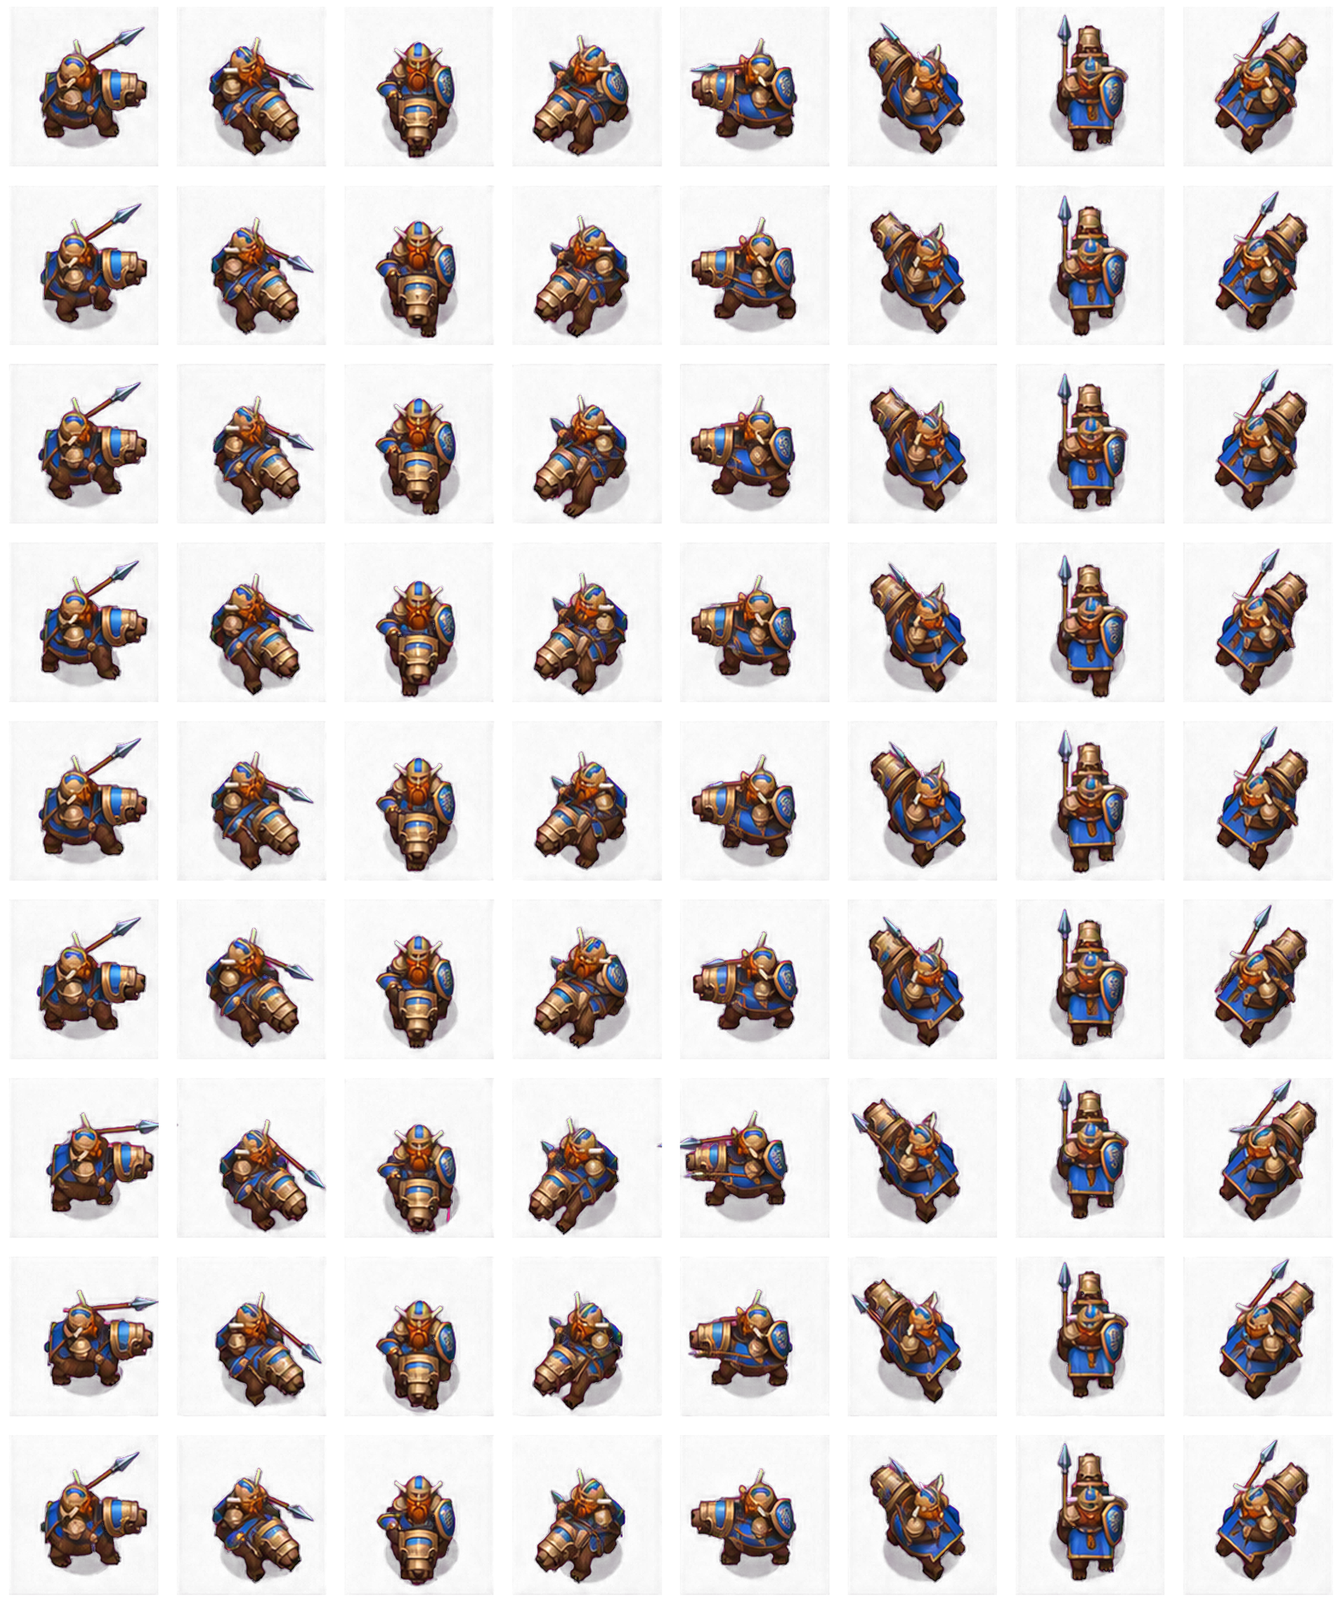
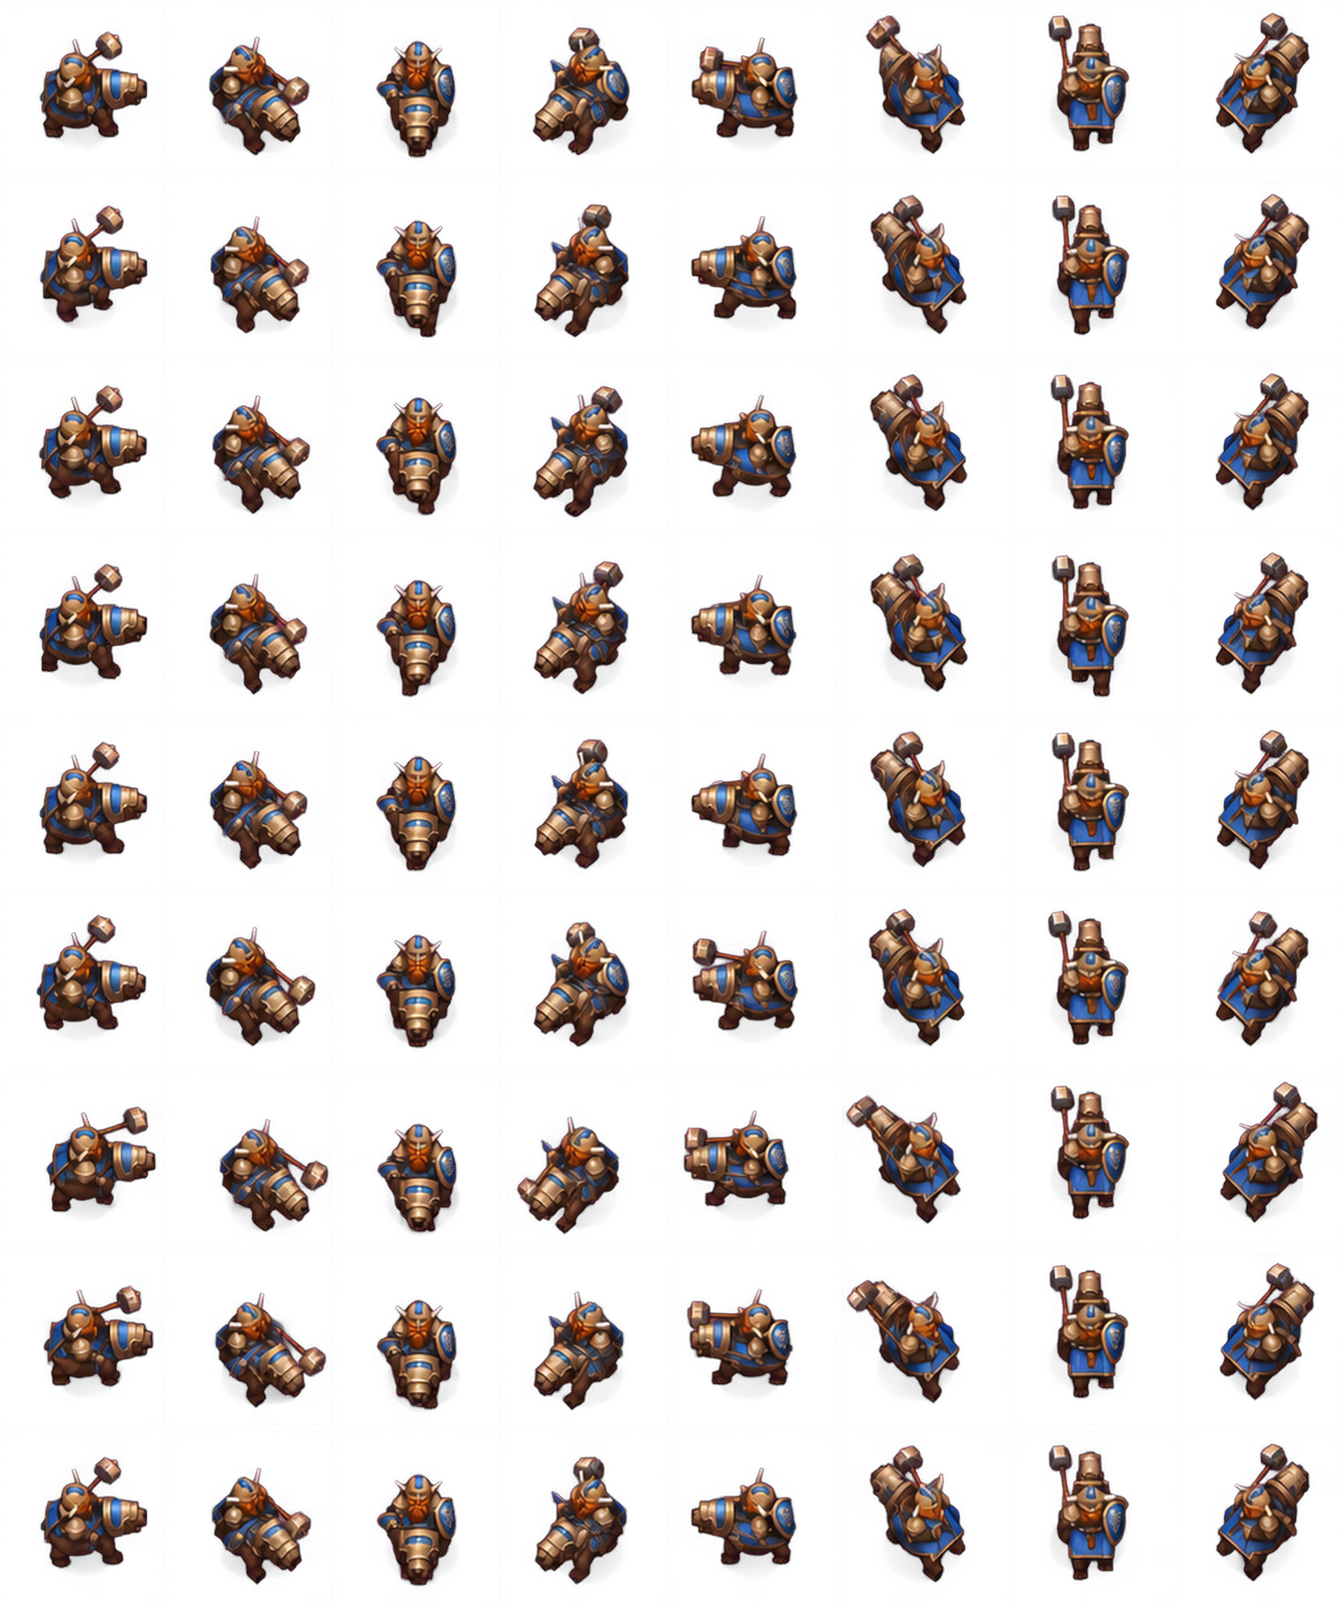
Give heavy melee weight and restore the bear rider hammer

diff --git a/warband/textures.py b/warband/textures.py
@@ -1591,10 +1591,35 @@ def _archer(player: int, frame: str, race: Race) -> Mesh:
     return mesh
 
 
+_OGRE_CLUB_HEAD_Z = 1.24
+_OGRE_CLUB_RADIUS = 0.17
+_HAMMER_HEAD_ABOVE_RIDER = 0.9
+_HAMMER_HEAD_SIZE = (0.12, 0.22, 0.16)
+_LANCE_POINT_ABOVE_RIDER = 1.17
+_LANCE_POINT_LENGTH = 0.2
+
+
+def _knight_geometry(race: Race) -> tuple[float, r3.Vec3, r3.Vec3]:
+    """Rider height, weapon grip and striking edge shared by the mesh and trail."""
+    if race is Race.ORC:
+        return 0.0, (0.44, 0.16, 0.66), (0.44, 0.16, _OGRE_CLUB_HEAD_Z + _OGRE_CLUB_RADIUS)
+    z = 0.68 if race is Race.DWARF else 0.73
+    edge = (_HAMMER_HEAD_ABOVE_RIDER + _HAMMER_HEAD_SIZE[2] / 2 if race is Race.DWARF
+            else _LANCE_POINT_ABOVE_RIDER + _LANCE_POINT_LENGTH)
+    return z, (0.34, 0.05, z + 0.27), (0.34, 0.05, z + edge)
+
+
+def _knight_pitch(frame: str, race: Race) -> float:
+    if race is Race.ORC:
+        return -95 if _striking(frame) else -20
+    return -82 if _striking(frame) else -38
+
+
 def _knight(player: int, frame: str, race: Race) -> Mesh:
     team = team_color(player)
     look = LOOKS[race]
     trim = darker(team, 0.7)
+    rider_z, grip, _ = _knight_geometry(race)
     if race is Race.ORC:
         # An ogre: two heads, a club, no mount and no manners.
         mesh = _shadow(0.42) + _legs(frame, look.skin, spread=0.16)
@@ -1607,16 +1632,14 @@ def _knight(player: int, frame: str, race: Race) -> Mesh:
         mesh += _unit_head((0.17, 0.02, 1.0), 0.14, race=Race.ORC)
         mesh += r3.box((-0.17, 0.02, 1.16), (0.18, 0.18, 0.06), look.metal_dark)
         mesh += _unit_rod((-0.34, 0, 0.78), (-0.5, 0.2, 0.6), 0.09, look.skin)
-        grip = (0.44, 0.16, 0.66)
         mesh += _unit_rod((0.34, 0, 0.78), grip, 0.09, look.skin)
         club = _unit_rod((0.44, 0.16, 0.5), (0.44, 0.16, 1.2), 0.05, WOOD_DARK)
-        club += r3.sphere((0.44, 0.16, 1.24), 0.17, WOOD_DARK, rings=3, sides=7)
+        club += r3.sphere((0.44, 0.16, _OGRE_CLUB_HEAD_Z), _OGRE_CLUB_RADIUS, WOOD_DARK, rings=3, sides=7)
         for a in (0.3, 1.6, 2.9, 4.2, 5.5):
-            club += r3.cone((0.44 + 0.15 * math.cos(a), 0.16 + 0.15 * math.sin(a), 1.24), 0.03, 0.1, look.metal, sides=4)
-        mesh += _unit_pitch(club, -95 if _striking(frame) else -20, grip)
+            club += r3.cone((0.44 + 0.15 * math.cos(a), 0.16 + 0.15 * math.sin(a), _OGRE_CLUB_HEAD_Z), 0.03, 0.1, look.metal, sides=4)
+        mesh += _unit_pitch(club, _knight_pitch(frame, race), grip)
         return mesh
     mesh = _mount(frame, True, team, race)
-    rider_z = 0.73 if race is not Race.DWARF else 0.68
     mesh += r3.cylinder((0, -0.11, rider_z), 0.21, 0.34, look.metal, sides=8)
     mesh += _unit_panel([(-0.21, -0.19, rider_z + 0.34), (0.21, -0.19, rider_z + 0.34),
                          (0.28, -0.45, rider_z - 0.19), (-0.28, -0.45, rider_z - 0.19)], trim)
@@ -1639,16 +1662,15 @@ def _knight(player: int, frame: str, race: Race) -> Mesh:
             mesh += _unit_rod((0, -0.1, rider_z + 0.72), (0, -0.31, rider_z + 0.89), 0.1, team)
             mesh += r3.cone((0, -0.32, rider_z + 0.83), 0.13, 0.14, team, sides=6)
     mesh += _shield(-0.33, 0.11, rider_z + 0.21, team, 0.92, race=race)
-    grip = (0.34, 0.05, rider_z + 0.27)
     if race is Race.DWARF:
-        lance = _unit_rod((0.34, 0.05, rider_z), (0.34, 0.05, rider_z + 0.95), 0.036, WOOD)
-        lance += r3.box((0.34, 0.05, rider_z + 0.9), (0.12, 0.22, 0.16), look.metal)  # a war hammer's head
-        lance += r3.cone((0.34, 0.17, rider_z + 0.9), 0.05, 0.14, look.metal_dark, sides=4)
+        weapon = _unit_rod((0.34, 0.05, rider_z), (0.34, 0.05, rider_z + 0.95), 0.036, WOOD)
+        weapon += r3.box((0.34, 0.05, rider_z + _HAMMER_HEAD_ABOVE_RIDER), _HAMMER_HEAD_SIZE, look.metal)
+        weapon += r3.cone((0.34, 0.17, rider_z + _HAMMER_HEAD_ABOVE_RIDER), 0.05, 0.14, look.metal_dark, sides=4)
     else:
-        lance = _unit_rod((0.34, 0.05, rider_z - 0.06), (0.34, 0.05, rider_z + 1.19), 0.036, THATCH if race is Race.HUMAN else (222, 206, 168))
-        lance += r3.cone((0.34, 0.05, rider_z + 1.17), 0.085, 0.2, look.metal, sides=4)
-        lance += _unit_panel([(0.34, 0.05, rider_z + 1.1), (0.34, -0.29, rider_z + 0.97), (0.34, 0.05, rider_z + 0.86)], team)
-    mesh += _unit_pitch(lance, -82 if _striking(frame) else -38, grip)
+        weapon = _unit_rod((0.34, 0.05, rider_z - 0.06), (0.34, 0.05, rider_z + 1.19), 0.036, THATCH if race is Race.HUMAN else (222, 206, 168))
+        weapon += r3.cone((0.34, 0.05, rider_z + _LANCE_POINT_ABOVE_RIDER), 0.085, _LANCE_POINT_LENGTH, look.metal, sides=4)
+        weapon += _unit_panel([(0.34, 0.05, rider_z + 1.1), (0.34, -0.29, rider_z + 0.97), (0.34, 0.05, rider_z + 0.86)], team)
+    mesh += _unit_pitch(weapon, _knight_pitch(frame, race), grip)
     return mesh
 
 
@@ -1865,7 +1887,7 @@ def chop_contact_offset(facing: int, race: Race = Race.HUMAN) -> tuple[float, fl
     return PROJECTION.project((x * c - y * s, x * s + y * c, z))
 
 
-@lru_cache(maxsize=3 * FACINGS * len(Race))
+@lru_cache(maxsize=4 * FACINGS * len(Race))
 def _melee_sweep(unit_type: UnitType, facing: int, race: Race) -> tuple[tuple[tuple[float, float], tuple[float, float]], ...]:
     """A weapon ribbon, projected from its authored wind/strike rig.
 
@@ -1880,6 +1902,8 @@ def _melee_sweep(unit_type: UnitType, facing: int, race: Race) -> tuple[tuple[tu
         grip, edge = _WORKER_GRIP, _WORKER_AXE_EDGE[1]
     elif unit_type is UnitType.SCOUT:
         _, grip, edge = _scout_geometry(race)
+    elif unit_type is UnitType.KNIGHT:
+        _, grip, edge = _knight_geometry(race)
     else:
         raise ValueError(unit_type)
     inner = tuple(a + (b - a) * 0.88 for a, b in zip(grip, edge))
@@ -1898,8 +1922,10 @@ def _melee_sweep(unit_type: UnitType, facing: int, race: Race) -> tuple[tuple[tu
             mesh = _shift(mesh, tuple(between(a, b) for a, b in zip(_SWORD_SHIFT["wind"], _SWORD_SHIFT["strike"])))
         elif unit_type is UnitType.PEASANT:
             mesh = _unit_pitch(mesh, between(_worker_axe_angle("wind"), _worker_axe_angle("strike")), grip)
-        else:
+        elif unit_type is UnitType.SCOUT:
             mesh = _unit_pitch(mesh, between(_SCOUT_PITCH["wind"], _SCOUT_PITCH["strike"]), grip)
+        else:
+            mesh = _unit_pitch(mesh, between(_knight_pitch("wind", race), _knight_pitch("strike", race)), grip)
         if unit_type in MOUNTED:
             mesh = _shift(mesh, (0.0, between(wind.lunge, strike.lunge), between(_BOB["wind"], _BOB["strike"])))
         else:
@@ -1927,11 +1953,12 @@ def melee_trail_image(game: Game, unit_type: UnitType, facing: int, race: Race =
     height = bottom - top
     image = Image.new("RGBA", (round(width * sample), round(height * sample)))
     draw = ImageDraw.Draw(image)
+    edge_width = 1.6 if unit_type is UnitType.KNIGHT and race in (Race.ORC, Race.DWARF) else 1.2
     for i, ((inner0, tip0), (inner1, tip1)) in enumerate(zip(ribbon, ribbon[1:])):
         strength = (i + 1) / (len(ribbon) - 1)
         points = [((x + width / 2) * sample, (y - top) * sample) for x, y in (inner0, tip0, tip1, inner1)]
         draw.polygon(points, fill=(235, 242, 252, round(85 * strength)))
-        draw.line(points[1:3], fill=(249, 251, 255, round(180 * strength)), width=round(1.2 * sample))
+        draw.line(points[1:3], fill=(249, 251, 255, round(180 * strength)), width=round(edge_width * sample))
     image = image.resize((round(width * scale), round(height * scale)), Image.Resampling.LANCZOS)
     placements[key] = Placement((width, height), bottom)
     game.assets.image_from_pil(key, image)

diff --git a/tests/warband/test_melee_presentation.py b/tests/warband/test_melee_presentation.py
@@ -76,7 +76,7 @@ def test_worker_puts_cargo_away_for_combat_then_delivers_the_same_load(game, rac
 
 
 @pytest.mark.parametrize("race", list(Race))
-@pytest.mark.parametrize("unit_type", [UnitType.FOOTMAN, UnitType.PEASANT, UnitType.SCOUT])
+@pytest.mark.parametrize("unit_type", [UnitType.FOOTMAN, UnitType.PEASANT, UnitType.SCOUT, UnitType.KNIGHT])
 def test_melee_trail_keeps_its_whole_arc_inside_the_image_in_every_facing(game, race, unit_type):
     """Rear-facing cuts rise farther than the original fixed square allowed."""
     store = ImageStore(game)
@@ -115,7 +115,7 @@ def duel(game, *, damaging=True, race=Race.HUMAN, unit_type=UnitType.FOOTMAN):
 
 
 @pytest.mark.parametrize("race", list(Race))
-@pytest.mark.parametrize("unit_type", [UnitType.FOOTMAN, UnitType.PEASANT, UnitType.SCOUT])
+@pytest.mark.parametrize("unit_type", [UnitType.FOOTMAN, UnitType.PEASANT, UnitType.SCOUT, UnitType.KNIGHT])
 def test_actual_melee_contact_displaces_the_drawn_victim(game, race, unit_type):
     """Compare the same target motion with/without damage, after the entire frame.
 
@@ -148,7 +148,7 @@ def first_hit(game, victim):
 
 
 @pytest.mark.parametrize("race", list(Race))
-@pytest.mark.parametrize("unit_type", [UnitType.FOOTMAN, UnitType.PEASANT, UnitType.SCOUT])
+@pytest.mark.parametrize("unit_type", [UnitType.FOOTMAN, UnitType.PEASANT, UnitType.SCOUT, UnitType.KNIGHT])
 def test_melee_loads_back_then_drives_forward_without_moving_its_ground_point(game, race, unit_type):
     """Anticipation and follow-through must carry visible weight at gameplay size.
 
@@ -173,7 +173,7 @@ def test_melee_loads_back_then_drives_forward_without_moving_its_ground_point(ga
 
 
 @pytest.mark.parametrize("race", list(Race))
-@pytest.mark.parametrize("unit_type", [UnitType.FOOTMAN, UnitType.PEASANT, UnitType.SCOUT])
+@pytest.mark.parametrize("unit_type", [UnitType.FOOTMAN, UnitType.PEASANT, UnitType.SCOUT, UnitType.KNIGHT])
 def test_pause_freezes_the_visible_hit_reaction(game, race, unit_type):
     """F3 must freeze the combat body as well as the authoritative clock."""
     scene, attacker, victim = duel(game, race=race, unit_type=unit_type)
@@ -194,7 +194,7 @@ def test_pause_freezes_the_visible_hit_reaction(game, race, unit_type):
 
 
 @pytest.mark.parametrize("race", list(Race))
-@pytest.mark.parametrize("unit_type", [UnitType.FOOTMAN, UnitType.PEASANT, UnitType.SCOUT])
+@pytest.mark.parametrize("unit_type", [UnitType.FOOTMAN, UnitType.PEASANT, UnitType.SCOUT, UnitType.KNIGHT])
 def test_cancelled_windup_does_not_leave_a_cut_or_impact(game, race, unit_type):
     """Moving away cancels the load-up; no predicted contact may leak into a frame."""
     scene, attacker, victim = duel(game, race=race, unit_type=unit_type)
@@ -214,7 +214,7 @@ def test_cancelled_windup_does_not_leave_a_cut_or_impact(game, race, unit_type):
 
 
 @pytest.mark.parametrize("race", list(Race))
-@pytest.mark.parametrize("unit_type", [UnitType.FOOTMAN, UnitType.PEASANT, UnitType.SCOUT])
+@pytest.mark.parametrize("unit_type", [UnitType.FOOTMAN, UnitType.PEASANT, UnitType.SCOUT, UnitType.KNIGHT])
 def test_a_released_miss_draws_the_cut_but_does_not_shove_the_target(game, race, unit_type):
     """A target outside reach can escape a committed swing; a trail is not a hit."""
     scene, attacker, victim = duel(game, race=race, unit_type=unit_type)
@@ -236,7 +236,7 @@ def test_a_released_miss_draws_the_cut_but_does_not_shove_the_target(game, race,
 
 
 @pytest.mark.parametrize("race", list(Race))
-@pytest.mark.parametrize("unit_type", [UnitType.FOOTMAN, UnitType.PEASANT, UnitType.SCOUT])
+@pytest.mark.parametrize("unit_type", [UnitType.FOOTMAN, UnitType.PEASANT, UnitType.SCOUT, UnitType.KNIGHT])
 def test_recoil_follows_a_new_move_and_finishes_at_the_current_ground_point(game, race, unit_type):
     """A hit cannot pin a new move to its old position or snap back on expiry."""
     scene, attacker, victim = duel(game, race=race, unit_type=unit_type)

diff --git a/tools/restyle.py b/tools/restyle.py
@@ -89,7 +89,7 @@ SUBJECTS: dict[tuple[Race, UnitType], str] = {
     (Race.DWARF, UnitType.FOOTMAN): f"a dwarven ironguard: a squat, broad axeman in heavy bronze-trimmed plate, a horned nasal helm, a blue tabard "
                                     f"({TEAM}), a bossed round shield and a double-bitted axe",
     (Race.DWARF, UnitType.ARCHER): f"a dwarven crossbowman in a mail coat and a blue tabard ({TEAM}), with a heavy crossbow and a bolt case",
-    (Race.DWARF, UnitType.KNIGHT): f"a dwarven bear rider in bronze-trimmed plate with a blue caparison ({TEAM}) on an armoured war bear, carrying a lance and a shield",
+    (Race.DWARF, UnitType.KNIGHT): f"a dwarven bear rider in bronze-trimmed plate with a blue caparison ({TEAM}) on an armoured war bear, carrying one short-handled war hammer and a shield",
     (Race.DWARF, UnitType.SCOUT): f"a dwarven ram rider in leather and a blue sash ({TEAM}) on a shaggy mountain ram, with a spear",
     (Race.DWARF, UnitType.CATAPULT): f"a dwarven mortar: a squat iron mortar barrel on a wheeled carriage with a blue pennant ({TEAM}); the attack row fires "
                                      "with the barrel jolting back",
@@ -115,6 +115,8 @@ FIXES: dict[tuple[UnitType, Resource | None], str] = {
 }
 RACE_FIXES: dict[tuple[Race, UnitType], str] = {
     (Race.ORC, UnitType.KNIGHT): "the ogre stands on its own two feet with no mount; both heads look towards the facing; the club is gripped in both hands",
+    (Race.DWARF, UnitType.KNIGHT): "the rider sits in the bear's saddle; one war hammer is held in the right hand, with a short shaft and a block-shaped metal head; "
+                                 "its grip and swing follow the reference, raised in wind-up and swung forward in strike; the shield stays on the left forearm",
     (Race.ORC, UnitType.CATAPULT): "exactly one stone, inside the sling basket at the end of the arm; the small skull on the frame's front is bone with eye sockets, "
                                    "never a second stone; the basket is empty after the throw",
     (Race.ELF, UnitType.CATAPULT): "the bolt lies in the groove of the ballista and is gone after the shot; the wheels have spokes",
@@ -126,7 +128,7 @@ INVENTORY: dict[UnitType, str] = {
     UnitType.PEASANT: "one figure, one tool (axe) or one carried load, no shield",
     UnitType.FOOTMAN: "one figure, exactly one sword (one hilt), exactly one shield",
     UnitType.ARCHER: "one figure, exactly one bow (or a throwing axe in hand for orcs, a crossbow for dwarves), no shield",
-    UnitType.KNIGHT: "one rider on one mount (the orc ogre: one two-headed giant on foot), one lance or club, at most one shield",
+    UnitType.KNIGHT: "one rider on one mount (the orc ogre: one two-headed giant on foot), one weapon (human/elf lance, dwarf war hammer, orc club), at most one shield",
     UnitType.SCOUT: "one rider on one mount, one spear, no shield",
     UnitType.CATAPULT: "one siege engine, one throwing arm or barrel, wheels, at most one projectile",
     UnitType.CLERIC: "one figure, one staff, no shield, no sword",
@@ -304,7 +306,7 @@ class Unit:
 
     @property
     def description(self) -> str:
-        return SUBJECTS[(self.race, self.unit)] + CARRY.get(self.carrying, "")
+        return SUBJECTS[(self.race, self.unit)] + (CARRY[self.carrying] if self.unit is UnitType.PEASANT else "")
 
     @property
     def inventory(self) -> str:

diff --git a/warband/view.py b/warband/view.py
@@ -128,18 +128,19 @@ def _melee_lunge(u: Unit, fraction: float) -> float:
     These are pixels of presentation, never additional reach or model movement.
     The existing wind-up/cooldown clocks keep the weight shift tied to the blow.
     """
-    if u.type not in (UnitType.FOOTMAN, UnitType.PEASANT, UnitType.SCOUT) or u.state != "attack":
+    if u.type not in (UnitType.FOOTMAN, UnitType.PEASANT, UnitType.SCOUT, UnitType.KNIGHT) or u.state != "attack":
         return 0.0
+    load, drive = (4.0, 6.0) if u.type is UnitType.KNIGHT else (3.0, 5.0)
     if u.windup > 0.0:
         remaining = max(0.0, u.windup - fraction * SIM_DT)
         if remaining > 0.09:
-            return -3.0 * (u.info.windup - remaining) / (u.info.windup - 0.09)
+            return -load * (u.info.windup - remaining) / (u.info.windup - 0.09)
         progress = 1 - remaining / 0.09
-        return -3.0 + 8.0 * progress * progress * (3 - 2 * progress)
+        return -load + (load + drive) * progress * progress * (3 - 2 * progress)
     if u.cooldown > 0.0:
         age = u.info.cooldown - u.cooldown + fraction * SIM_DT
         if 0 <= age < STRIKE + FOLLOW + RECOVER:
-            return 5.0 * (1 - age / (STRIKE + FOLLOW + RECOVER)) ** 2
+            return drive * (1 - age / (STRIKE + FOLLOW + RECOVER)) ** 2
     return 0.0
 
 
@@ -764,7 +765,7 @@ class MapView:
     def _draw_melee_trails(self) -> None:
         """A brief afterimage of the released cut; damage still owns impact feedback."""
         for u in self.world.units.values():
-            if u.type not in (UnitType.FOOTMAN, UnitType.PEASANT, UnitType.SCOUT) or u.state != "attack" or u.windup > 0 or u.cooldown <= 0:
+            if u.type not in (UnitType.FOOTMAN, UnitType.PEASANT, UnitType.SCOUT, UnitType.KNIGHT) or u.state != "attack" or u.windup > 0 or u.cooldown <= 0:
                 continue
             age = u.info.cooldown - u.cooldown + self._fraction * SIM_DT
             if not 0 <= age < 0.09:

diff --git a/docs/melee-animation.md b/docs/melee-animation.md
@@ -409,3 +409,49 @@ Acceptance before correcting the recipe or installed art:
 - Inspect native gameplay at normal/near/far zoom with the corrected art and
   the eventual hammer trail. Verify the unchanged simulation fingerprint,
   affected scene/art tests and native visual lint before accepting the change.
+
+### Heavy-unit implementation and art provenance
+
+The load/drive regression failed for all four knight races: each body's
+horizontal displacement stayed exactly zero before the opponent's counter-hit.
+Heavy bodies now load back by up to 4 logical pixels and drive forward by 6,
+using their existing longer wind-up and cooldown. Lance, hammer and club trails
+use the actual weapon grip, edge, pitch and authored body bob. Hammer/club
+edges are slightly wider to remain visible when foreshortened. These are
+presentation changes; all 36 procedural knight meshes compare exactly equal
+to `fead4b7`, including face colours and vertex coordinates.
+
+The bear-rider recipe now requests one hammer and its matching pose. A second
+prompt bug appended the worker's axe description to every non-worker; that
+suffix is now limited to workers. The installed bear-rider PNG was edited with
+the built-in image-generation tool, using the old painted sheet for identity
+and the procedural sheet for the hammer's position and animation. The original
+generated RGBA sheet, exact prompt, references and extraction report are in
+`docs/evidence/melee/bear-hammer-art/`. The output's transparent background was
+composited over the pipeline's chroma key, then passed through the existing
+`sagaforge.restyle.cut` registration and extraction. No weapon pixels were
+hand-painted or changed by a script.
+
+All 72 cells passed extraction: global scale 1.00763 and shift
+(-0.879, -1.538) pixels, with zero flagged cells. The existing sheet metadata,
+frame order and anchors are unchanged. All cells and red-team combat frames
+were inspected; they retain one dwarf, one bear, one hammer (occluded where
+appropriate), the shield, blue/red cloth and separate movement/combat poses.
+Native captures in `heavy-{painted,procedural}-{race}` cover every facing at
+1.0, 2.0 and 0.7 zoom. All eight normal matrices and the near/far contact
+comparisons were opened. The corrected hammer and compact trails keep the
+combat silhouettes readable.
+
+The native human-knight trace shows -3.846 pixels of anticipation and +6.0
+pixels of drive before an incoming hit, compared with 0/0 in the baseline;
+the model retains exactly one ground position. All 120 melee regressions pass,
+including all knight races, and the broader scene/view/combat/art selection
+passes **215 tests** in 26.06 s (one deliberate stale-sheet warning).
+`heavy-tests.log` and `heavy-fingerprint.log` record the results; the simulation
[1 lines of base64/hex data omitted]
+Every corrected art cell passes empty/clipping/chroma/recolour checks and the
+runtime centroid-drift threshold (`bear-hammer-art/runtime-lint.log`). Four
+native battle/forest layouts report zero findings (`heavy-layout.log`); the
+small battle and large forest images were opened. This completes the heavy
+weapon milestone; final fog/target/replay/network, ordinary mixed-army
+performance, full-suite and publication gates remain open for WB-004.

diff --git a/BACKLOG.md b/BACKLOG.md
@@ -267,7 +267,10 @@ Current milestones:
 - [x] Give scouts a spear trail and weight shift using the mounted rig;
   222 relevant checks pass, with native review for every race/facing in both
   art paths at normal/near/far zoom. Existing wolf-rider sheet lines are WB-019.
-- [ ] Finish heavy melee: knight lances, the dwarf hammer and the ogre club.
+- [x] Give heavy melee its lance, hammer and club trails and weight shift;
+  correct the painted bear rider's lance to its intended hammer. All 72 art
+  cells pass extraction and runtime checks; 215 relevant tests pass, the
+  fingerprint is unchanged, and native review covers all races/facings/zooms.
 - [ ] Finish fog/target-change/replay/network checks, the ordinary battle
   performance gate and complete WB-004 release acceptance.
 
